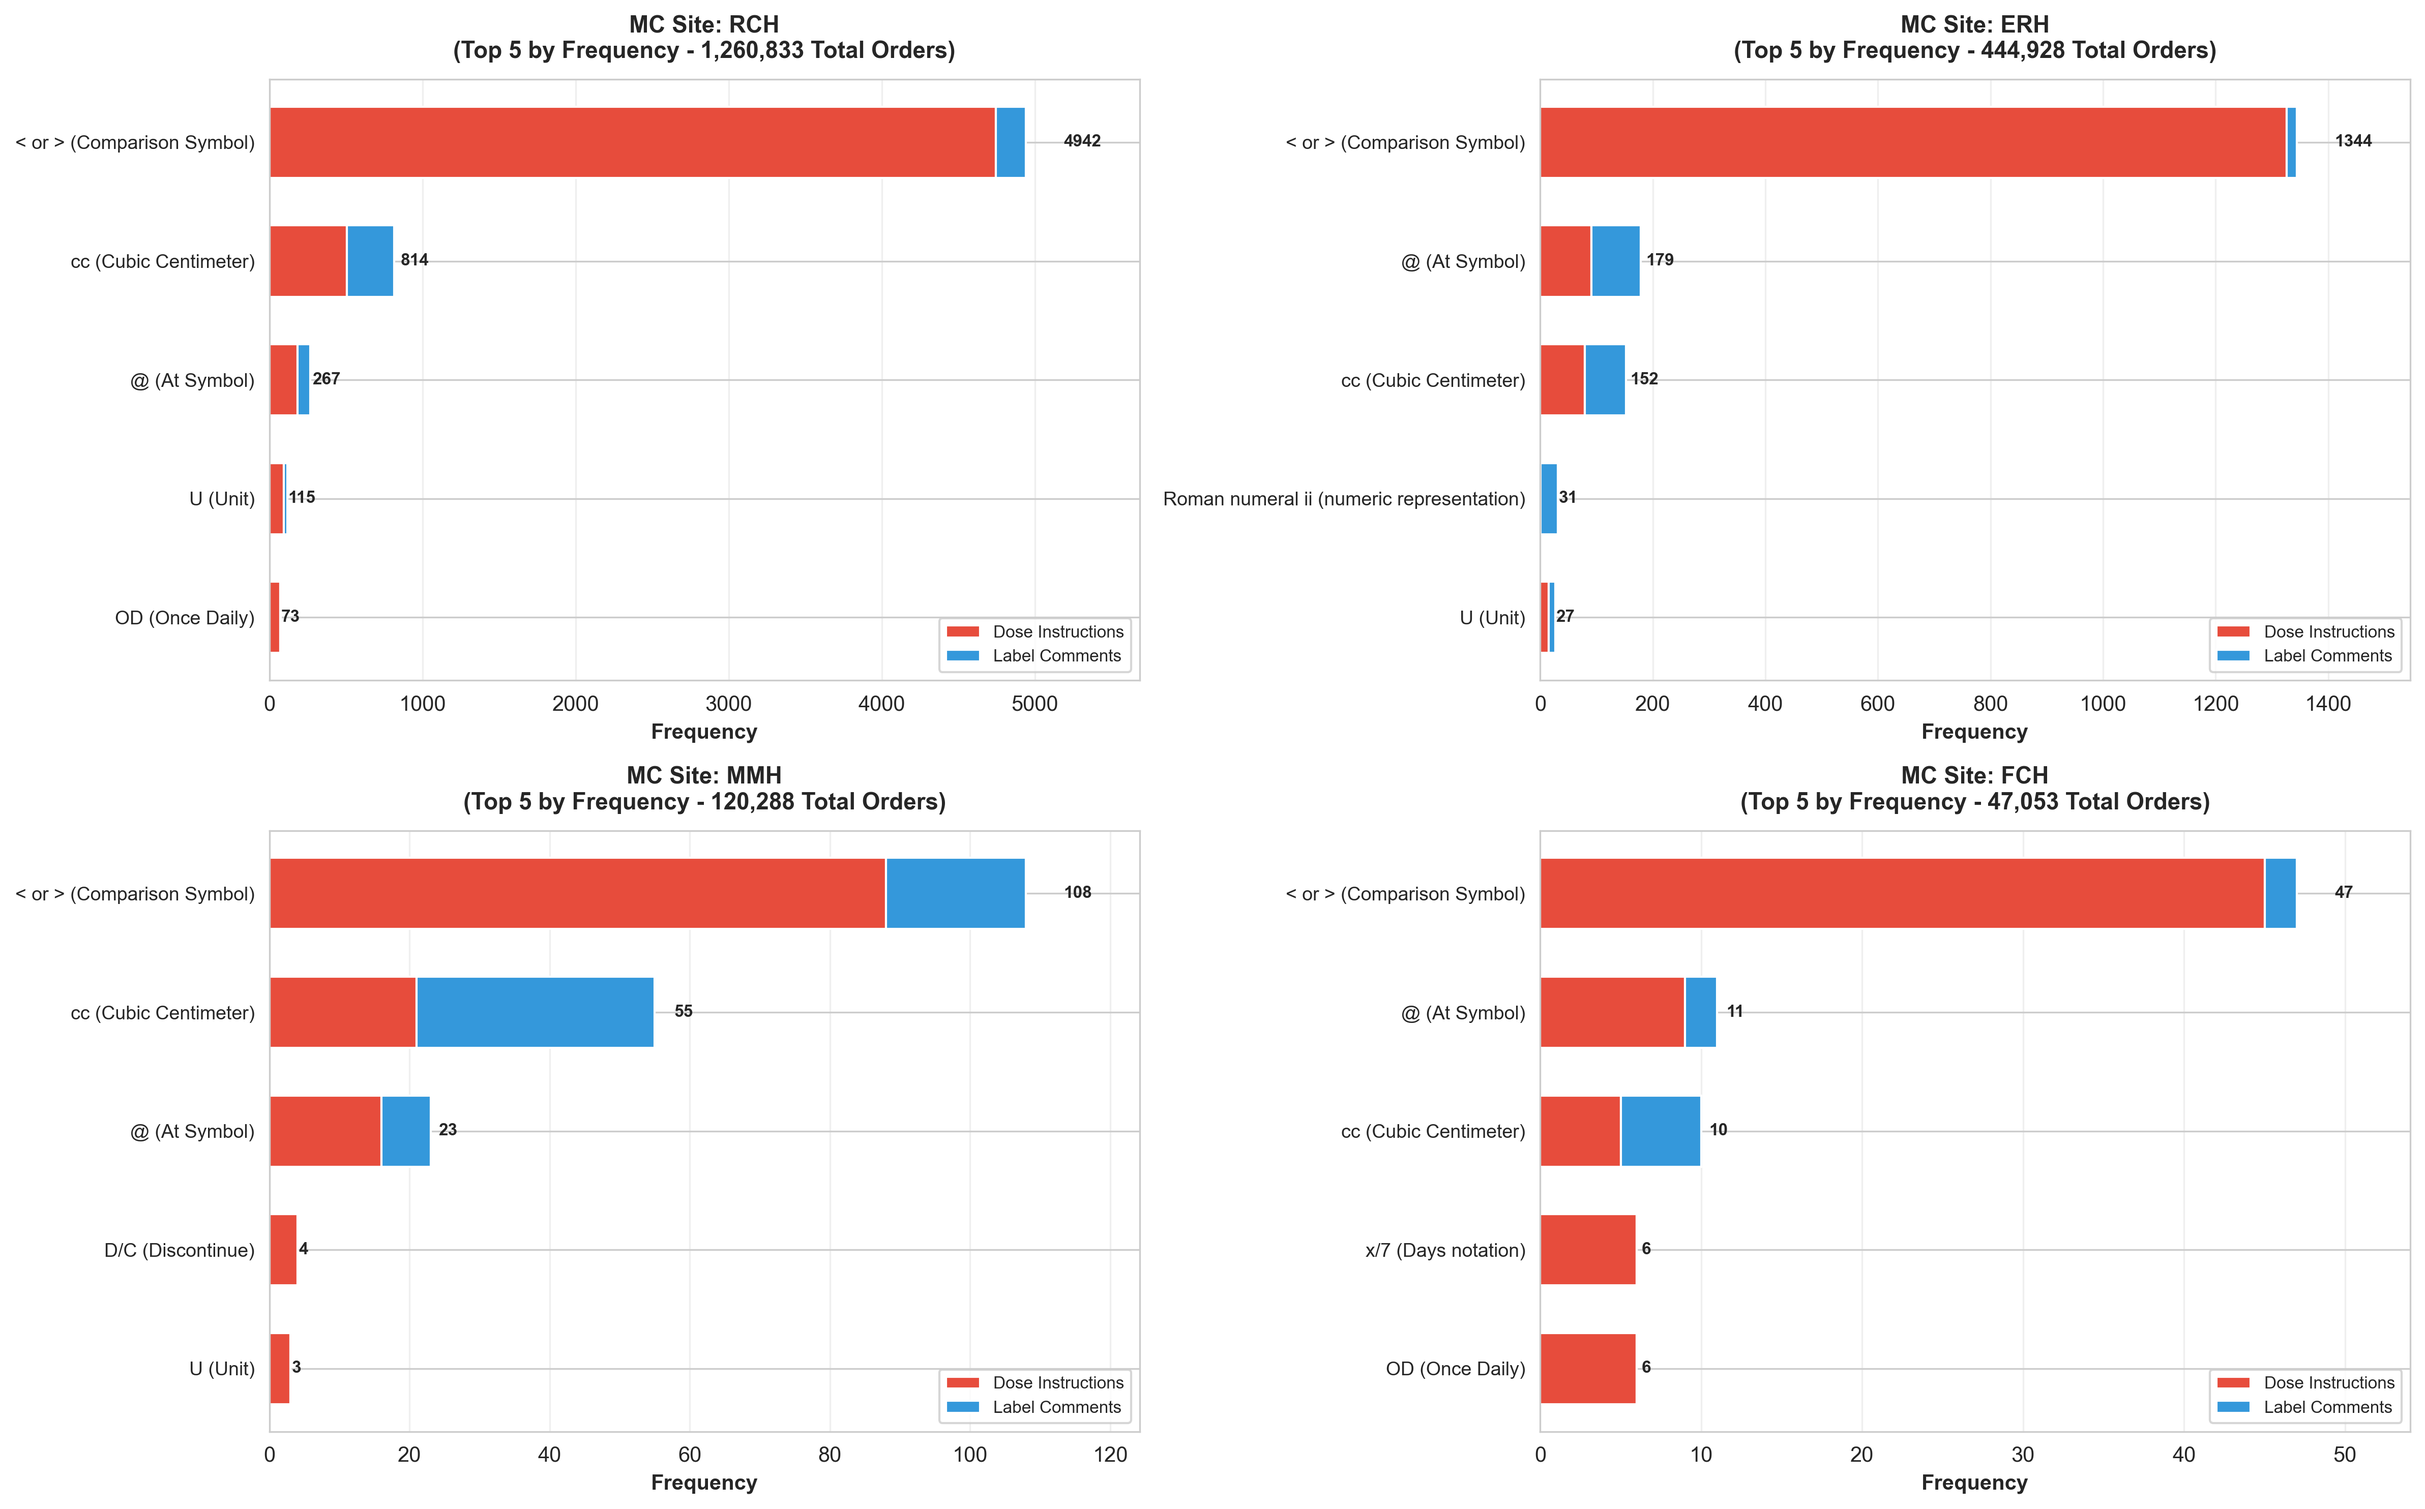
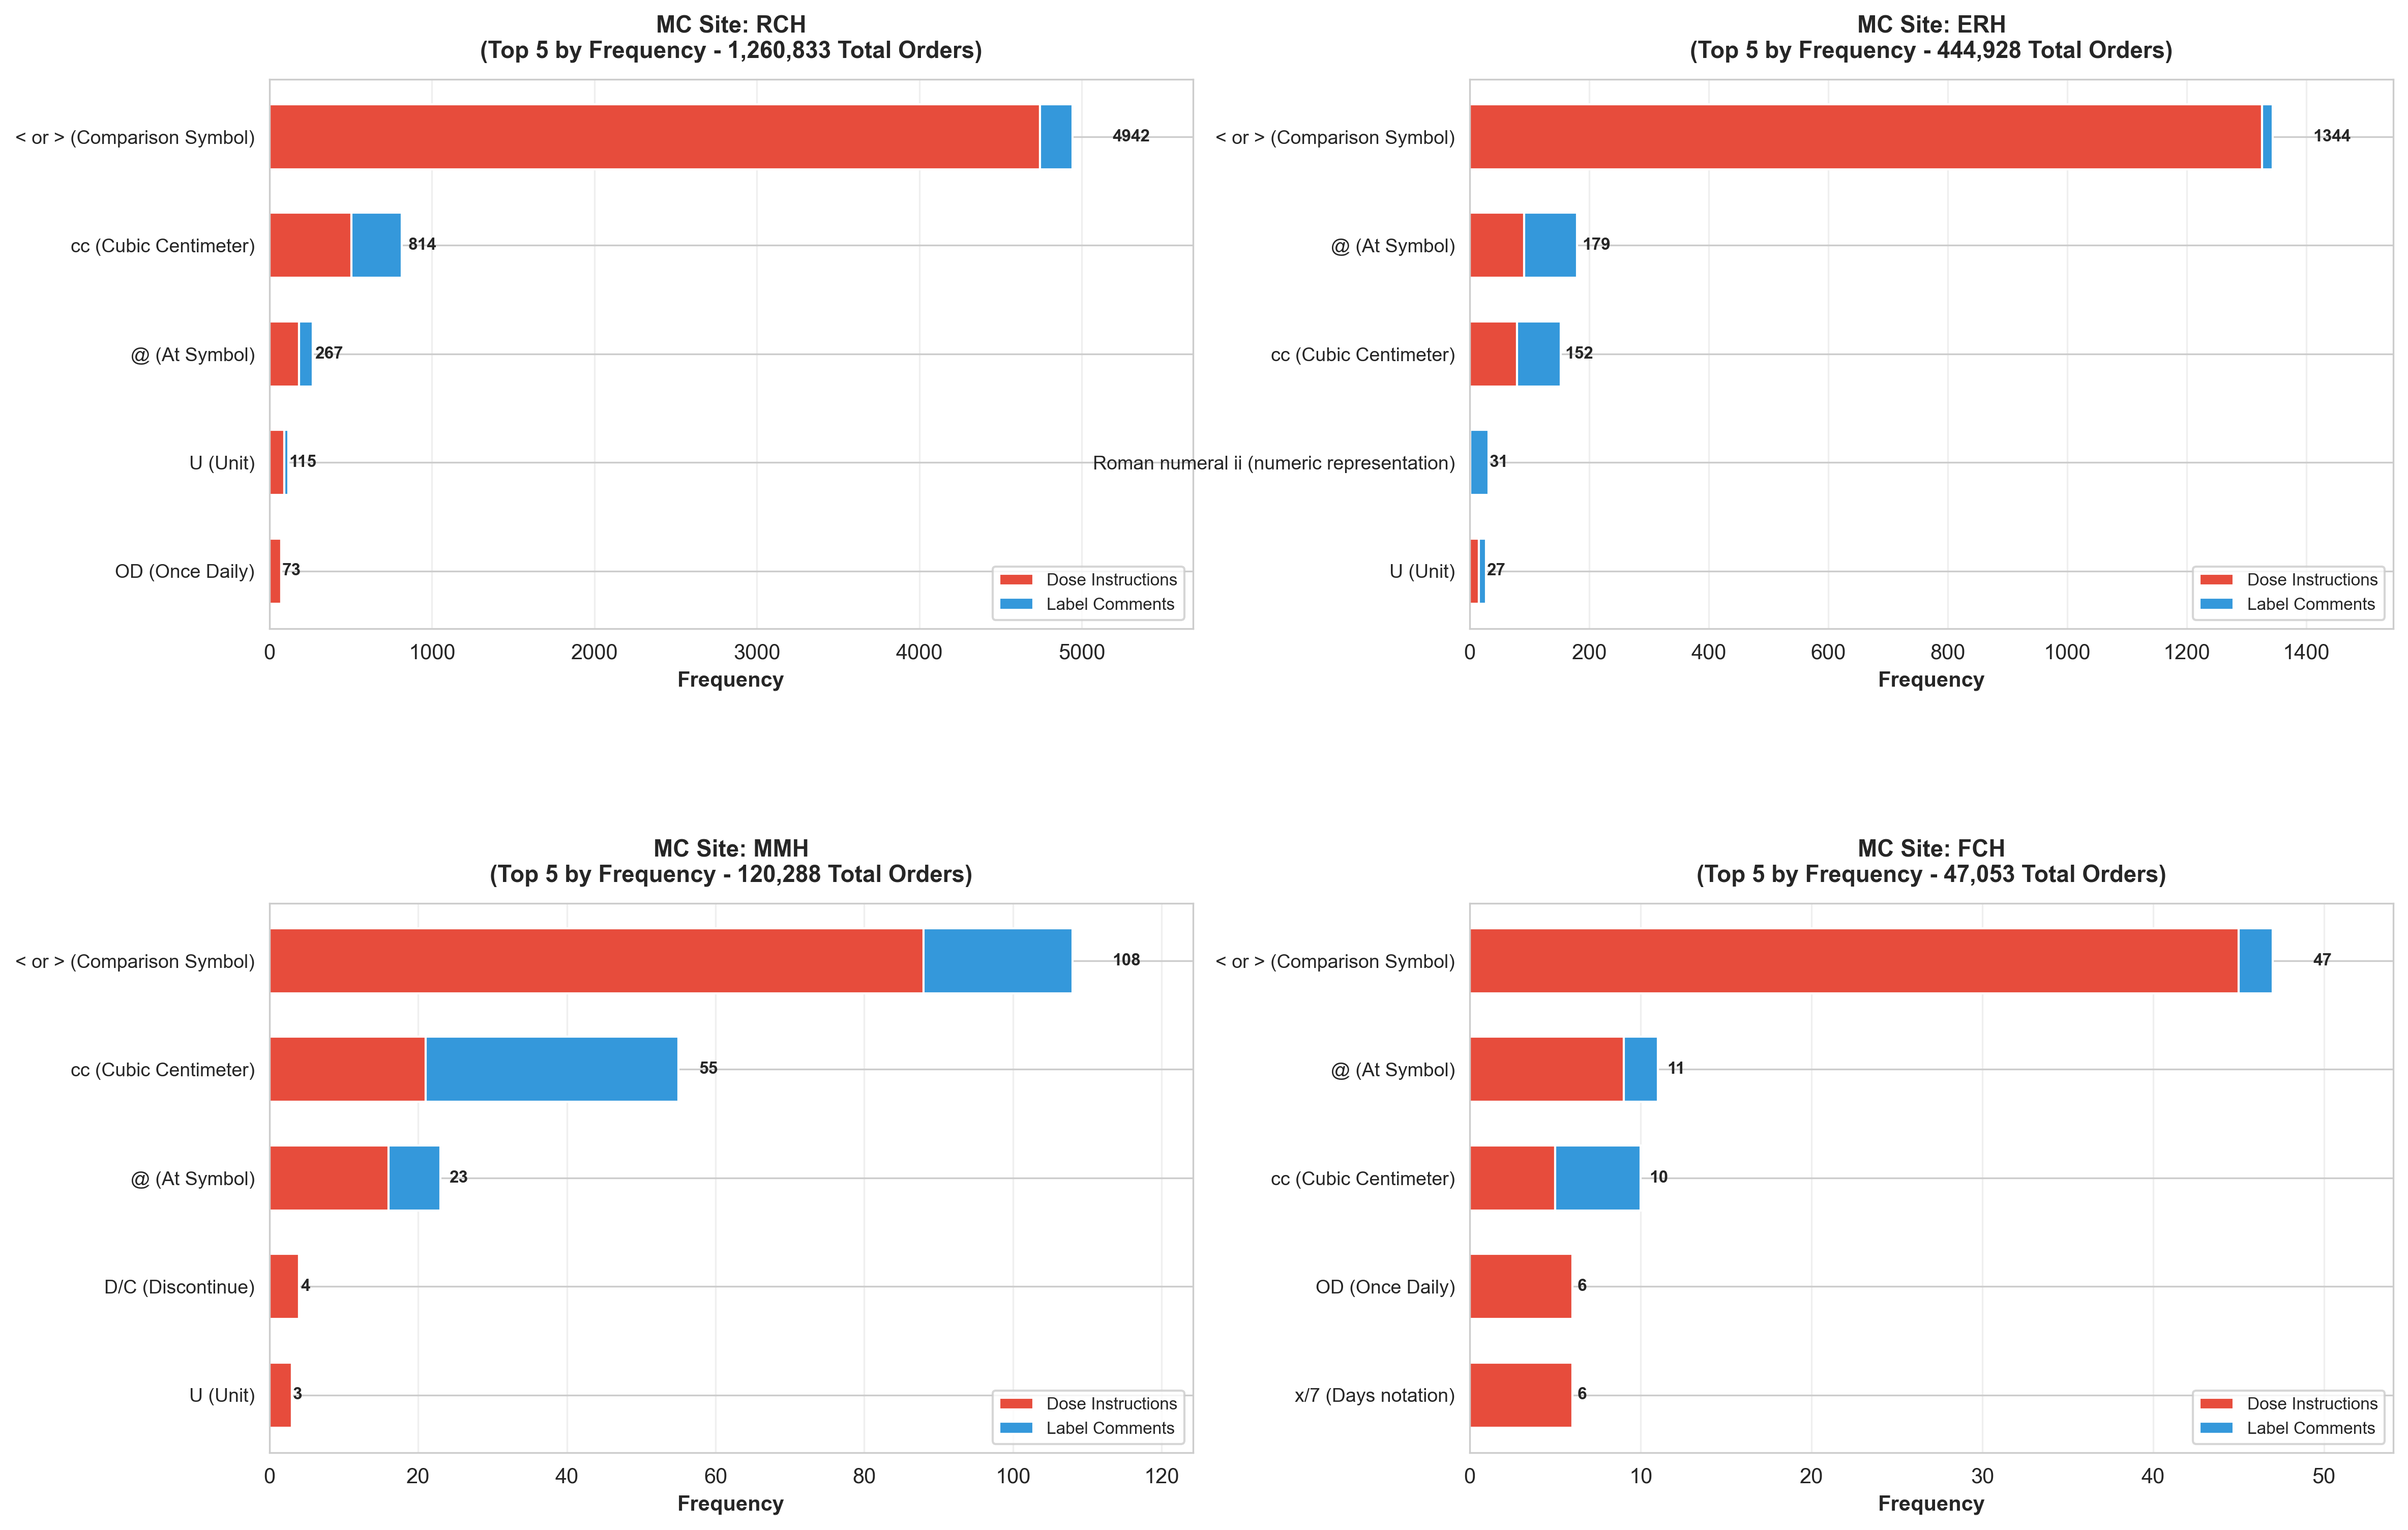
Increase vertical spacing between rows in multipanel figures
- Changed hspace from 0.4 to 0.5 in all multipanel figures (Figures 2-9)
- Replaced tight_layout() with explicit subplots_adjust() for better control
- Improved clarity and reduced crowding in:
  - Figure 2: MC system analysis
  - Figure 3: CS system analysis
  - Figures 4-9: Site-specific breakdown charts

diff --git a/visualize_abbreviations.py b/visualize_abbreviations.py
@@ -360,7 +360,7 @@ if len(df_mc) > 0:
                 ax.text(total + 5, i, f'{int(total)}', ha='left', va='center',
                        fontweight='bold', fontsize=7)
     
-    plt.tight_layout()
+    plt.subplots_adjust(left=0.05, right=0.98, top=0.95, bottom=0.05, hspace=0.5, wspace=0.35)
     plt.savefig('Test Results/unapproved_abbreviations_mc_system.png', dpi=300, bbox_inches='tight')
     print("Figure 2 saved: Test Results/unapproved_abbreviations_mc_system.png")
     plt.close()
@@ -591,7 +591,7 @@ if len(df_cs) > 0:
                 ax.text(total + 5, i, f'{int(total)}', ha='left', va='center',
                        fontweight='bold', fontsize=7)
     
-    plt.subplots_adjust(left=0.05, right=0.98, top=0.95, bottom=0.05, hspace=0.4, wspace=0.40)
+    plt.subplots_adjust(left=0.05, right=0.98, top=0.95, bottom=0.05, hspace=0.5, wspace=0.40)
     plt.savefig('Test Results/unapproved_abbreviations_cs_system.png', dpi=300)
     print("Figure 3 saved: Test Results/unapproved_abbreviations_cs_system.png")
     plt.close()
@@ -777,7 +777,7 @@ if len(all_mc_sites) > 0:
                 max_pct = site_df['Pct'].max()
                 ax.set_xlim(0, max_pct * 1.15)
     
-    plt.tight_layout()
+    plt.subplots_adjust(left=0.08, right=0.95, top=0.95, bottom=0.05, hspace=0.5, wspace=0.3)
     plt.savefig('Test Results/unapproved_abbreviations_mc_sites_top5_pct_total.png', dpi=300, bbox_inches='tight')
     print("Figure 4 saved: Test Results/unapproved_abbreviations_mc_sites_top5_pct_total.png")
     plt.close()
@@ -838,7 +838,7 @@ if len(all_cs_sites) > 0:
                 max_pct = site_df['Pct'].max()
                 ax.set_xlim(0, max_pct * 1.15)
     
-    plt.tight_layout()
+    plt.subplots_adjust(left=0.05, right=0.98, top=0.95, bottom=0.05, hspace=0.5, wspace=0.35)
     plt.savefig('Test Results/unapproved_abbreviations_cs_sites_top5_pct_total.png', dpi=300, bbox_inches='tight')
     print("Figure 5 saved: Test Results/unapproved_abbreviations_cs_sites_top5_pct_total.png")
     plt.close()
@@ -899,7 +899,7 @@ if len(all_mc_sites) > 0:
                 max_pct = site_df['Pct'].max()
                 ax.set_xlim(0, max_pct * 1.15)
     
-    plt.tight_layout()
+    plt.subplots_adjust(left=0.08, right=0.95, top=0.95, bottom=0.05, hspace=0.5, wspace=0.3)
     plt.savefig('Test Results/unapproved_abbreviations_mc_sites_top3_pct_total.png', dpi=300, bbox_inches='tight')
     print("Figure 6 saved: Test Results/unapproved_abbreviations_mc_sites_top3_pct_total.png")
     plt.close()
@@ -960,7 +960,7 @@ if len(all_cs_sites) > 0:
                 max_pct = site_df['Pct'].max()
                 ax.set_xlim(0, max_pct * 1.15)
     
-    plt.tight_layout()
+    plt.subplots_adjust(left=0.05, right=0.98, top=0.95, bottom=0.05, hspace=0.5, wspace=0.35)
     plt.savefig('Test Results/unapproved_abbreviations_cs_sites_top3_pct_total.png', dpi=300, bbox_inches='tight')
     print("Figure 7 saved: Test Results/unapproved_abbreviations_cs_sites_top3_pct_total.png")
     plt.close()
@@ -1021,7 +1021,7 @@ if len(all_mc_sites) > 0:
                 max_total = site_df['Total'].max()
                 ax.set_xlim(0, max_total * 1.15)
     
-    plt.tight_layout()
+    plt.subplots_adjust(left=0.08, right=0.95, top=0.95, bottom=0.05, hspace=0.5, wspace=0.3)
     plt.savefig('Test Results/unapproved_abbreviations_mc_sites_top5_freq.png', dpi=300, bbox_inches='tight')
     print("Figure 8 saved: Test Results/unapproved_abbreviations_mc_sites_top5_freq.png")
     plt.close()
@@ -1082,7 +1082,7 @@ if len(all_cs_sites) > 0:
                 max_total = site_df['Total'].max()
                 ax.set_xlim(0, max_total * 1.15)
     
-    plt.tight_layout()
+    plt.subplots_adjust(left=0.05, right=0.98, top=0.95, bottom=0.05, hspace=0.5, wspace=0.35)
     plt.savefig('Test Results/unapproved_abbreviations_cs_sites_top5_freq.png', dpi=300, bbox_inches='tight')
     print("Figure 9 saved: Test Results/unapproved_abbreviations_cs_sites_top5_freq.png")
     plt.close()
